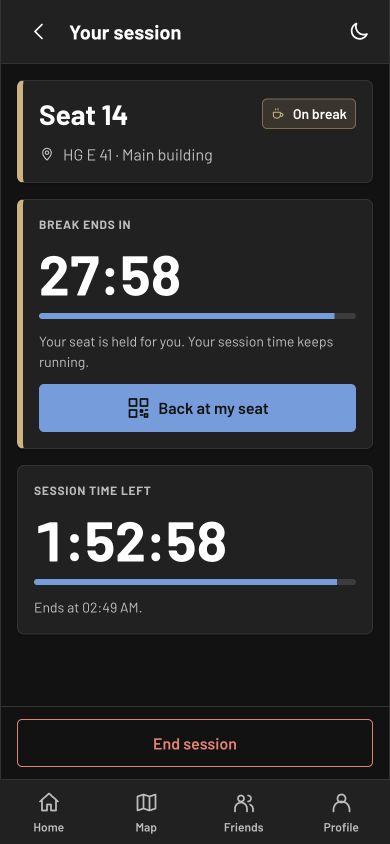
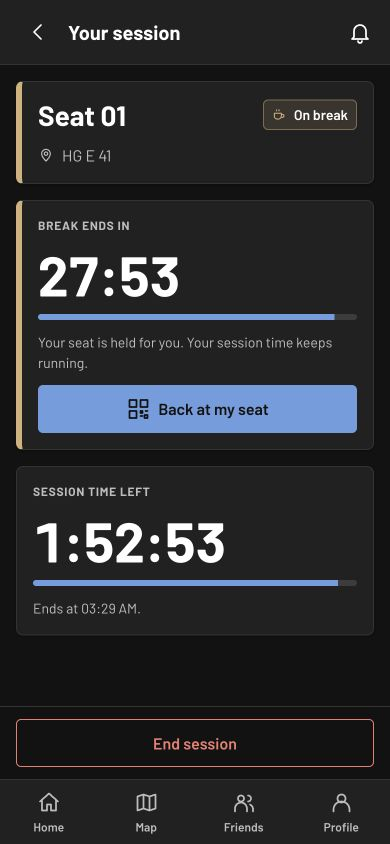
Refresh pitch screenshots from merged main UI

diff --git a/pitch/closing.js b/pitch/closing.js
@@ -39,7 +39,7 @@ function featureRenders(scene,qr,screens){
   for(const x of [0,1])for(const z of [.5,1.1])box(handover,[.055,1,.055],[x,.5,z],'#88998c');
   laptop(handover,.5,1.12,.65);backpack(handover,[-1.1,0,.75]);
 
-  const coffee=group(variants[3],[-.35,.15,0]);coffee.scale.setScalar(1.05);
+  const coffee=group(variants[3],[-.60,.15,0]);coffee.scale.setScalar(1.05);
   const mug=group(coffee,[-.35,0,0]);mug.scale.setScalar(.85);
   cylinder(mug,.57,.49,1.1,[0,.7,0],'#d5b49a',16);
   cylinder(mug,.50,.50,.015,[0,1.258,0],'#765744',16);
@@ -228,7 +228,7 @@ export function buildSlides(){
     </section>
     <section class="pitch-slide pilot-slide" data-slide="3" hidden aria-label="One library, entire ETH, other universities">
       <div class="pilot-copy"><h1 data-rollout="0">One library</h1><span aria-hidden="true">→</span><p data-rollout="1">Entire ETH</p><span aria-hidden="true">→</span><p data-rollout="2">Other universities</p></div>
-      <div class="pilot-admin"><p>Admin room setup</p><img src="${adminUrl}" alt="Map administration panel showing workspace selection, name, type and address" /></div>
+      <div class="pilot-admin"><p>Admin room setup</p><img src="${adminUrl}" alt="Study Spaces admin layout editor with furniture tools, tables and sixteen seats" /></div>
     </section>
     <section class="pitch-slide future-slide" data-slide="4" hidden aria-label="Questions and answers over a happy ETH campus"><h1>Q&amp;A</h1></section>`;
   const pages=[...root.querySelectorAll('[data-slide]')];

diff --git a/pitch/style.css b/pitch/style.css
@@ -33,7 +33,7 @@
 .pilot-copy [data-rollout]{opacity:.25;transition:opacity .2s ease}
 .pilot-copy [data-rollout].revealed{opacity:.45}
 .pilot-copy [data-rollout].active{opacity:1}
-.pilot-admin{position:absolute;left:6.5vw;top:25vh;width:32vw;display:none}
+.pilot-admin{position:absolute;left:6.5vw;top:25vh;width:42vw;display:none}
 #stage[data-rollout='1'] .pilot-admin{display:block}
 .pilot-admin p{font-size:clamp(20px,2.2vw,34px);letter-spacing:-.035em;margin-bottom:2vh;color:#71816e}
 .pilot-admin img{display:block;width:100%;max-height:62vh;object-fit:contain;object-position:left top;border-radius:12px}

diff --git a/docs/pitch-closing.md b/docs/pitch-closing.md
@@ -23,4 +23,4 @@ The final Q&A scene keeps gentle, varied movement and never restarts automatical
 
 The live app stays available in a phone at the top right of Q&A, preserving the screen and booking from the demo. Use it directly for follow-up questions. Click the surrounding campus to focus the presentation, then press D to enlarge the phone in the centre; D again returns it to the corner. Clicking the phone's outer frame also toggles its size. The screen itself remains interactive.
 
-The feature phones are bundled screenshots of the actual app UI from an isolated sample-data preview. No booking, break, extension or end-session request was submitted. The scanner uses the actual ScanScreen with a simulated QR camera feed for the screenshot; it did not access a physical camera. The handover feature shows the actual end-session confirmation, which frees the seat. The friends phone uses the actual planner UI with four sample assignments and no reservation submitted. The portrait map capture shows HG in the app's 3D Workspaces mode. The admin image is the existing occupancy-map-preview workspace editor, cropped to room selection and workspace fields; it is a developer tool, with the pilot administration workflow still to be formalised. No workspace was edited for the capture. The QR illustration is not a working seat token. The final campus and adoption models are imagined outcomes. Free access is the intended policy. The university rollout is a proposal; other universities have not been integrated. Department permissions and library enforcement are proposed pilot work; do not describe them as already implemented or agreed. Campus room bookings are not occupancy sensors.
+The feature phones are bundled screenshots of the actual app UI from an isolated sample-data preview. No booking, break, extension or end-session request was submitted. The scanner uses the actual ScanScreen with a simulated QR camera feed for the screenshot; it did not access a physical camera. The handover feature shows the actual end-session confirmation, which frees the seat. The friends phone uses the actual planner UI with four sample assignments and no reservation submitted. The portrait map capture shows HG in the app's 3D Workspaces mode. The admin image is the app's built-in admin layout editor, showing furniture tools and a sample room with sixteen seats. No workspace was edited for the capture. The QR illustration is not a working seat token. The final campus and adoption models are imagined outcomes. Free access is the intended policy. The university rollout is a proposal; other universities have not been integrated. Department permissions and library enforcement are proposed pilot work; do not describe them as already implemented or agreed. Campus room bookings are not occupancy sensors.

diff --git a/pitch/README.md b/pitch/README.md
@@ -45,4 +45,6 @@ The prototype does not automatically detect reservation or check-in success. The
 
 ## Closing assets
 
-`assets/party-planner.jpg` is a native 390×844 capture of the actual PartySeatsDraftScreen from an isolated local preview with sample data, four assignments and no submitted booking. The session assets show actual UI with isolated sample API responses: the scanner, extension priority, end-session confirmation, and on break. `session-scanner.jpg` uses ScanScreen with a simulated QR camera feed; no physical camera was accessed. No mutation was submitted. These are static phone textures, so the slides do not depend on additional live bookings. `assets/campus-map-phone.jpg` is a real 390×844 capture of HG in the app's 3D Workspaces view. `assets/admin-room-setup.jpg` is the existing map developer tool's workspace editor, captured without editing data; the pilot admin workflow remains to be formalised. Earlier active-timer and landscape-map captures remain bundled in the source assets but are no longer used by the slides. `assets/seat-qr.svg` encodes an illustration marker, not a valid seat token. Do not print it for the physical demo.
+`assets/party-planner.jpg` is a native 390×844 capture of the actual GroupSeatsScreen from an isolated local preview with sample data, four assignments and no submitted booking. The session assets show actual UI with isolated sample API responses: the scanner, extension priority, end-session confirmation, and on break. `session-scanner.jpg` uses ScanScreen with a simulated QR camera feed; no physical camera was accessed. No mutation was submitted. These are static phone textures, so the slides do not depend on additional live bookings. `assets/campus-map-phone.jpg` is a real 390×844 capture of HG in the app's 3D Workspaces view. `assets/admin-room-setup.jpg` is the app's built-in AdminLayoutPage with a sample room and sixteen seats, captured without saving a layout. Earlier active-timer and landscape-map captures remain bundled in the source assets but are no longer used by the slides. `assets/seat-qr.svg` encodes an illustration marker, not a valid seat token. Do not print it for the physical demo.
+
+The current slide captures were refreshed from main at `2ef73f8`, merged into the pitch branch in `1aae520`. The live iframe uses the same merged frontend; the local backend was rebuilt and migrated without reseeding bookings.
